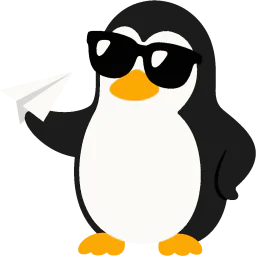
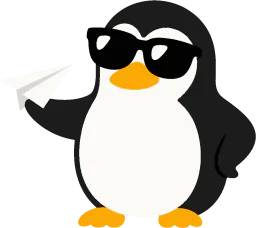
fix(assets): preserve non-square legacy preview proportions

diff --git a/tool/optimize_app_artwork.py b/tool/optimize_app_artwork.py
@@ -1,5 +1,5 @@
 #!/usr/bin/env python3
-"""Compress launcher PNGs and create 256px transparent picker WebPs.
+"""Compress launcher PNGs and create transparent picker WebPs up to 256px.
 
 Writing requires pngquant, cwebp and Pillow. Checking uses only Python's
 standard library, so the byte/dimension budgets also run in read-only CI.
@@ -132,9 +132,15 @@ def optimize():
     for source in sorted(PICKER.glob("*.png")):
         output = source.with_suffix(".webp")
         with Image.open(source) as image:
+            resampling = (
+                Image.Resampling.NEAREST
+                if "pixel" in source.stem
+                else Image.Resampling.LANCZOS
+            )
+            image.thumbnail((256, 256), resampling)
             if "pixel" in source.stem:
                 # Keep the pixel-art grid and every alpha value exact.
-                image.resize((256, 256), Image.Resampling.NEAREST).save(
+                image.save(
                     output,
                     "WEBP",
                     lossless=True,
@@ -146,8 +152,8 @@ def optimize():
                         "cwebp",
                         "-quiet",
                         "-resize",
-                        "256",
-                        "256",
+                        str(image.width),
+                        str(image.height),
                         "-q",
                         "85",
                         "-alpha_q",
@@ -163,7 +169,7 @@ def optimize():
                     timeout=60,
                 )
         with Image.open(output) as image:
-            assert image.size == (256, 256) and image.mode == "RGBA"
+            assert max(image.size) <= 256 and image.mode == "RGBA"
         source.unlink()
     print(json.dumps({"before": before, "after": inventory()}, indent=2))
     check()

diff --git a/docs/app-icon-artwork.md b/docs/app-icon-artwork.md
@@ -4,7 +4,8 @@ Reuse existing artwork before adding another source. Icon identities and native
 alternate-icon names are compatibility data: keep previously selected icons
 available even when they are no longer offered in the picker.
 
-The Flutter picker uses transparent 256px WebP tiles. Multiple color variants
+The Flutter picker uses transparent WebP tiles with a maximum edge of 256px.
+Non-square legacy artwork keeps its aspect ratio. Multiple color variants
 share one foreground tile where the UI supplies the background. Pixel artwork
 uses nearest-neighbor resizing and lossless WebP. Native launcher artwork keeps
 its original canvas size and transparency; do not resize the 1024px iOS sources.
@@ -34,7 +35,7 @@ unchanged. These are IPA measurements, not App Store download estimates: store
 thinning and signing change the final download.
 
 The optimization of the larger master catalogue reduces picker sources from
-7,947,623 to 580,100 bytes, launcher PNG sources from 45,959,823 to 12,230,371
+7,947,623 to 579,782 bytes, launcher PNG sources from 45,959,823 to 12,230,371
 bytes, native catalogue PNGs from 45,386,735 to 12,087,813 bytes, and Icon Composer
 layers from 22,953,703 to 6,770,931 bytes. All 60 icon identities remain available.
 The production Flutter asset builder confirms that iOS/Android bundle the 54
